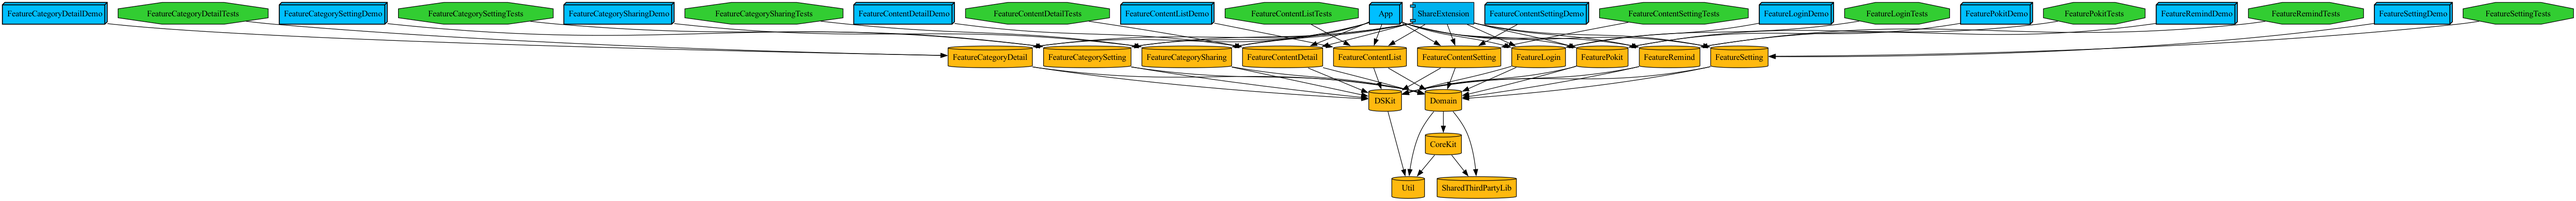
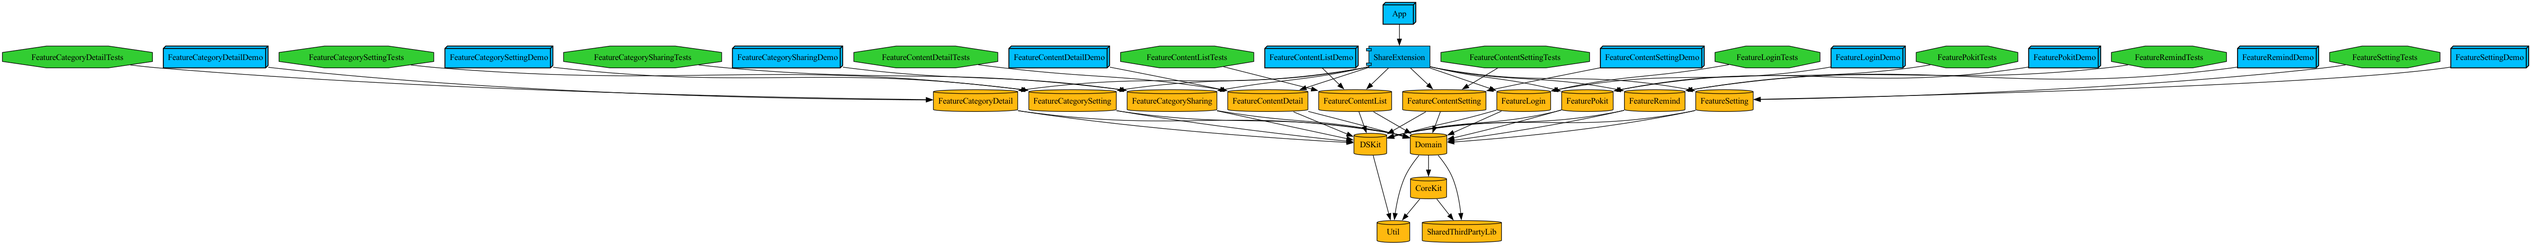
[chore] #146 App 타겟 의존성 수정

Changed region(s): [[0.0, 0.0, 1.0, 0.9977], [0.1865, 0.3521, 0.2487, 0.3815]]

diff --git a/Projects/App/Project.swift b/Projects/App/Project.swift
@@ -52,7 +52,7 @@ let projectTarget: Target = .target(
     sources: ["Sources/**"],
     resources: ["Resources/**"],
     entitlements: .file(path: .relativeToRoot("Projects/App/Resources/Pokit-iOS.entitlements")),
-    dependencies: features + [
+    dependencies: [
         // TODO: 의존성 추가
         .external(name: "FirebaseMessaging"),
         .target(shareExtensionTarget)
